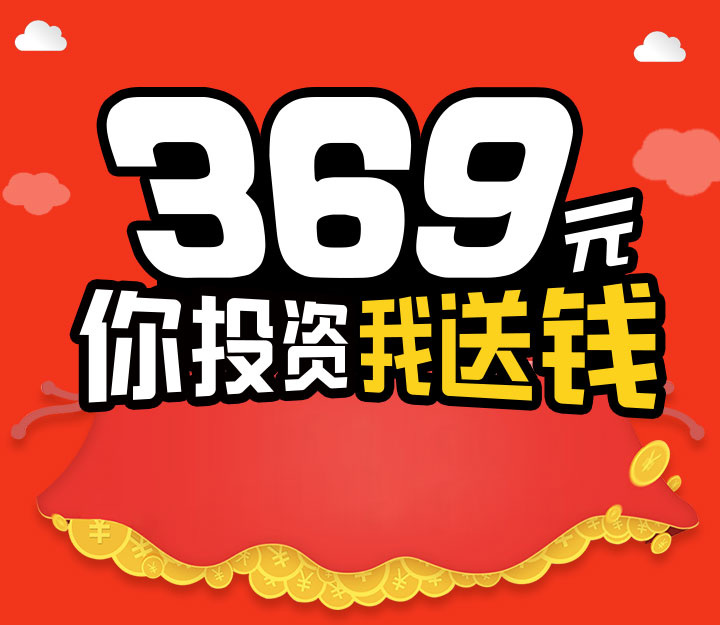
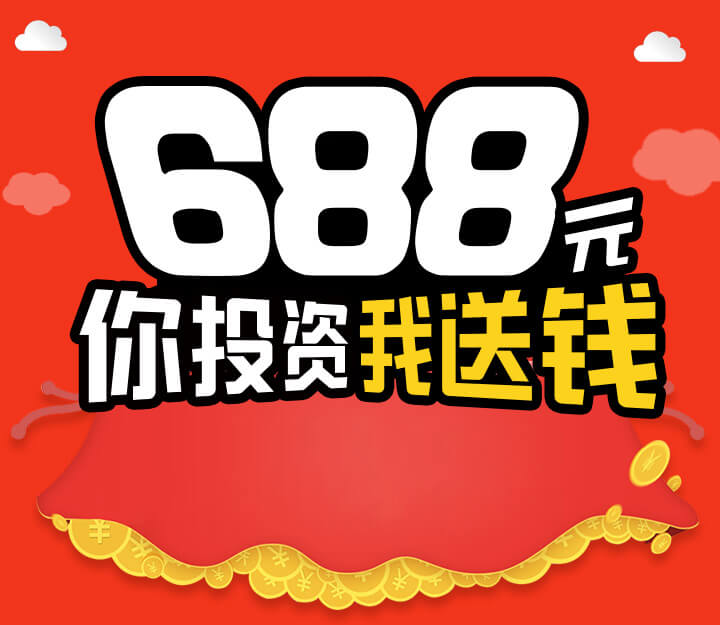
fix(activity) 投资返现文案、数据、banner图修改

diff --git a/app/views/activity/activity-landing.html b/app/views/activity/activity-landing.html
@@ -16,39 +16,39 @@
         <!-- <span>推荐项目</span> -->
       </div>
       <div class="gift-content margin-t-1">
-        <span>10元</span>
+        <span>15元</span>
         <span>&ge;200元</span>
-        <span>&ge; 1个月</span>
+        <span>&ge; 30天</span>
         <!-- <span>分期宝</span> -->
       </div>
       <div class="gift-content margin-t-1">
-        <span>20元</span>
+        <span>25元</span>
         <span>&ge;2000元</span>
-        <span>&ge; 1个月</span>
+        <span>&ge; 30天</span>
         <!-- <span>月月盈</span> -->
       </div>
       <div class="gift-content margin-t-1">
-        <span>30元</span>
+        <span>45元</span>
         <span>&ge;5000元</span>
-        <span>&ge; 1个月</span>
+        <span>&ge; 30天</span>
         <!-- <span>分期宝</span> -->
       </div>
       <div class="gift-content margin-t-1">
-        <span>55元</span>
+        <span>80元</span>
         <span>&ge;10000元</span>
-        <span>&ge; 1个月</span>
+        <span>&ge; 30天</span>
         <!-- <span>月月盈</span> -->
       </div>
       <div class="gift-content margin-t-1">
-        <span>88元</span>
+        <span>135元</span>
         <span>&ge;30000元</span>
-        <span>&ge; 1个月</span>
+        <span>&ge; 30天</span>
         <!-- <span>月月盈</span> -->
       </div>
       <div class="gift-content margin-t-1">
-        <span>166元</span>
+        <span>388元</span>
         <span>&ge;100000元</span>
-        <span>&ge; 1个月</span>
+        <span>&ge; 30天</span>
         <!-- <span>月月盈</span> -->
       </div>
     </div>
@@ -79,7 +79,7 @@
 
         <div class="all-rule">
           <span>2.</span>
-          <span>投资即送现金。每档投资与赠送现金一一对应，最高可获得369元现金。</span>
+          <span>投资即送现金。每档投资与赠送现金一一对应，最高可获得688元现金。</span>
         </div>
         <div class="all-rule">
           <span>3.</span>
@@ -136,7 +136,7 @@
         <li class="bg-white1 clearfix">
           <img class="fl" src="/images/activity/ensure.png" alt="">
           <p class="fl">本息保障</p>
-          <span class="fl">政府参与出资、全国排名前三的民营担保机构提供本息担保，十年来未出现一起担保违约事件。</span>
+          <span class="fl">政府参与出资、全国排名前三的民营担保机构提供担保，保障投资者权益。</span>
         </li>
         <li class="bg-white1 clearfix">
           <img class="fl" src="/images/activity/safe.png" alt="">

diff --git a/app/scripts/controllers/user-center/investments-stat.js b/app/scripts/controllers/user-center/investments-stat.js
@@ -14,14 +14,14 @@ angular.module('p2pSiteMobApp')
       if(!$rootScope.isLogged){
         $state.go('root.login');
       }
-      
+
       HongcaiUser.$find($rootScope.hasLoggedUser.id + '/investments/stat').$then(function(response) {
         $scope.investmentsStat = response;
         if(response.notPayOrder){
           $scope.investmentsStat.notPayOrder.dueTime = ($scope.investmentsStat.notPayOrder.createTime  + 5 * 60 * 1000 - $scope.investmentsStat.serverTime)/(1000* 60);
         }
       });
-      
+
     });
 
 
@@ -35,6 +35,6 @@ angular.module('p2pSiteMobApp')
       });
     }
 
-   
+
 
   });
